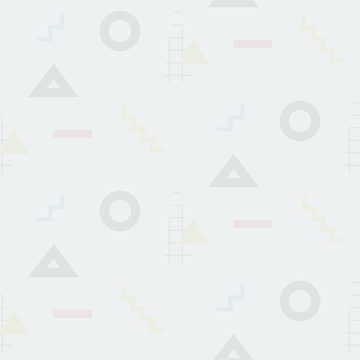
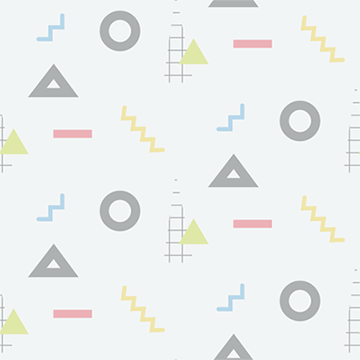
Beginings of Wordpress Theme

diff --git a/style.css b/style.css
@@ -1,9 +1,20 @@
+/*
+Theme Name: ENTP.fyi
+Author: TomAricRC
+Description: Theme for ENTP.fyi
+Tags: ENTP
+*/
 body {
   font-size: 18px;
   line-height: 1.72em;
   font-family: 'Hind', sans-serif;
-  background: #ecf0f1;
-  background-image: url(img/background.png); }
+  background: #ecf0f1 url(img/background.png) 0 0 repeat;
+  background: -moz-linear-gradient(top, rgba(236, 240, 241, 0.96) 0%, rgba(236, 240, 241, 0.72) 72%, rgba(236, 240, 241, 0) 100%), url("http://www.skrenta.com/images/stackoverflow.jpg");
+  background: -webkit-gradient(linear, left top, left bottom, color-stop(0%, rgba(236, 240, 241, 0.96)), color-stop(72%, rgba(236, 240, 241, 0.72)), color-stop(100%, rgba(236, 240, 241, 0))), url("img/background.png");
+  background: -webkit-linear-gradient(top, rgba(236, 240, 241, 0.96) 0%, rgba(236, 240, 241, 0.72) 72%, rgba(236, 240, 241, 0) 100%), url("img/background.png");
+  background: -o-linear-gradient(top, rgba(236, 240, 241, 0.96) 0%, rgba(236, 240, 241, 0.72) 72%, rgba(236, 240, 241, 0) 100%), url("img/background.png");
+  background: -ms-linear-gradient(top, rgba(236, 240, 241, 0.96) 0%, rgba(236, 240, 241, 0.72) 72%, rgba(236, 240, 241, 0) 100%), url("img/background.png");
+  background: linear-gradient(to bottom, rgba(236, 240, 241, 0.96) 0%, rgba(236, 240, 241, 0.72) 72%, rgba(236, 240, 241, 0) 100%), url("img/background.png"); }
   @media (max-width: 768px) {
     body {
       font-size: 17px; } }
@@ -153,7 +164,7 @@ article .post-content {
     padding: 1rem 2rem;
     margin: 2.8rem 0;
     color: #34495e; }
-article a.post-read-more {
+article .post-read-more {
   background: #f39c12;
   color: white;
   font-family: 'Montserrat', sans-serif;
@@ -162,7 +173,7 @@ article a.post-read-more {
   text-align: center;
   display: block; }
   @media (max-width: 768px) {
-    article a.post-read-more {
+    article .post-read-more {
       padding: 1em; } }
 article .post-bottom-angle {
   width: 0;

diff --git a/stylesheets/main.scss b/stylesheets/main.scss
@@ -1,3 +1,9 @@
+/*
+Theme Name: ENTP.fyi
+Author: TomAricRC
+Description: Theme for ENTP.fyi
+Tags: ENTP
+*/
 //Include The Modules
 @import "modules/all";
 // Site Globals
@@ -5,8 +11,13 @@ body {
   font-size: 18px;
   line-height: 1.72em;
   font-family: 'Hind', sans-serif;
-  background: $clouds;
-  background-image: url(img/background.png);
+  background: $clouds url(img/background.png) 0 0 repeat;
+  background: -moz-linear-gradient(top, rgba(236,240,241,.96) 0%, rgba(236,240,241,.72) 72%, rgba(236,240,241,0) 100%), url('http://www.skrenta.com/images/stackoverflow.jpg');
+  background: -webkit-gradient(linear, left top, left bottom, color-stop(0%, rgba(236,240,241,.96)), color-stop(72%, rgba(236,240,241,.72)), color-stop(100%, rgba(236,240,241,0))), url('img/background.png');
+  background: -webkit-linear-gradient(top, rgba(236,240,241,.96) 0%, rgba(236,240,241,.72) 72%, rgba(236,240,241,0) 100%), url('img/background.png');
+  background: -o-linear-gradient(top, rgba(236,240,241,.96) 0%, rgba(236,240,241,.72) 72%, rgba(236,240,241,0) 100%), url('img/background.png');
+  background: -ms-linear-gradient(top, rgba(236,240,241,.96) 0%, rgba(236,240,241,.72) 72%, rgba(236,240,241,0) 100%), url('img/background.png');
+  background: linear-gradient(to bottom, rgba(236,240,241,.96) 0%, rgba(236,240,241,.72) 72%, rgba(236,240,241,0) 100%), url('img/background.png');
   //font-family: 'Montserrat', sans-serif;
   @media (max-width: 768px) {
     font-size: 17px;

diff --git a/index.html b/index.html
@@ -37,7 +37,7 @@
     <article>
       <section class="post-top-angle"></section>
       <section class="post-content">
-        <h2 class="post-title">2| The Test Collapse</h2>
+        <h2 class="post-title">2| Test Post: Please Ignore This...Yolo</h2>
         <figure class="post-featured">
           <img src="img/post-1-featured.png">
           <figcaption>
@@ -50,11 +50,13 @@
           </p>
         </div>
       </section>
-      <section class="post-top-angle post-top-angle-call"></section>
-      <a class="post-read-more">
-        READ MORE
+      <a href="#">
+        <section class="post-top-angle post-top-angle-call"></section>
+        <div class="post-read-more">
+          READ MORE
+        </div>
+        <section class="post-bottom-angle"></section>
       </a>
-      <section class="post-bottom-angle"></section>
     </article>
 
     <article>

diff --git a/stylesheets/partials/_posts.scss b/stylesheets/partials/_posts.scss
@@ -64,7 +64,7 @@ article {
       color: $wetasphalt;
     }
   }
-  a.post-read-more {
+  .post-read-more {
     @media (max-width: 768px) {
       padding: 1em;
     }

diff --git a/index.php b/index.php
@@ -1,0 +1,61 @@
+<?php get_header(); ?>
+
+<main class="container">
+  <article>
+    <section class="post-top-angle"></section>
+    <section class="post-content">
+      <h2 class="post-title">2| The Test Collapse</h2>
+      <figure class="post-featured">
+        <img src="img/post-1-featured.png">
+        <figcaption>
+        </figcaption>
+      </figure>
+      <div class="post-copy">
+        <p>
+          Some time ago I was intruduced to the concept of Myers Briggs Type Indicators. According to a group of platonic aquantances, a series of seemingly simple and arbitrary questions could identify the “4 key cognetive functions” a person uses to think, processes
+          information and (more or less) act. The idea of every man, woman, child, and house-plant being categorized into 16 predefined classes seemed nonsencical, but I was intruiged enough to further investigate.
+        </p>
+      </div>
+    </section>
+    <section class="post-top-angle post-top-angle-call"></section>
+    <a class="post-read-more">
+        READ MORE
+      </a>
+    <section class="post-bottom-angle"></section>
+  </article>
+
+  <article>
+    <section class="post-top-angle"></section>
+    <section class="post-content">
+      <h2 class="post-title">1| The Purpose of this Site</h2>
+      <figure class="post-featured">
+        <img src="img/post-1-featured.png">
+        <figcaption>
+
+        </figcaption>
+      </figure>
+      <div class="post-copy">
+        <p>
+          Some time ago I was intruduced to the concept of Myers Briggs Type Indicators. According to a group of platonic aquantances, a series of seemingly simple and arbitrary questions could identify the “4 key cognetive functions” a person uses to think, processes
+          information and (more or less) act. The idea of every man, woman, child, and house-plant being categorized into 16 predefined classes seemed nonsencical, but I was intruiged enough to further investigate.
+        </p>
+        <blockquote>
+          Yeah...right.
+          <br /><span style="font-style: italic;">Let me take your silly test.</span>
+        </blockquote>
+        <p>
+          Filled with confidence in my inability to fit into predefined profiles, I welcomed MBTI as a challenge. If anyone could break it’s personality-factoring shenanigans, it was going to be me. Unfortunately, my aspirations were immediately cut short by my
+          (suprisingly knowledgeable) group of colleagues.
+        </p>
+        <p>
+          You can create beautiful things - but you have to see them in your mind first. I'm a water fanatic. I love water. You can create anything that makes you happy. We don't want to set these clouds on fire. And I will hypnotize that just a little bit.
+        </p>
+        <blockquote>
+          No need to take the test. You’re a textbook ENTP.
+        </blockquote>
+      </div>
+    </section>
+  </article>
+</main>
+
+<?php get_footer(); ?>

diff --git a/header.php b/header.php
@@ -1,0 +1,35 @@
+<!DOCTYPE html>
+<html lang="en">
+
+<head>
+  <meta charset="utf-8">
+  <meta name="viewport" content="width=device-width, initial-scale=1">
+  <title>ENTP.fyi</title>
+  <meta name="description" content="The HTML5 Herald">
+  <meta name="author" content="SitePoint">
+  <link href="https://cdnjs.cloudflare.com/ajax/libs/meyer-reset/2.0/reset.min.css" rel="stylesheet">
+  <link href='https://fonts.googleapis.com/css?family=Hind:400,700|Montserrat:700' rel='stylesheet' type='text/css'>
+  <link href="https://maxcdn.bootstrapcdn.com/bootstrap/3.3.6/css/bootstrap.min.css" rel="stylesheet">
+  <link rel="stylesheet" href="style.css">
+
+  <!--[if lt IE 9]>
+  <script src = "http://html5shiv.googlecode.com/svn/trunk/html5.js"></script>
+  <![endif]-->
+  <?php wp_head();?>
+</head>
+
+<body>
+  <header class="site-header">
+    <nav>
+      <div class="container">
+        <figure class="site-header-hero row">
+          <img class="logo col-sm-6 col-md-5 col-lg-5" src="img/logo.svg" />
+          <figcaption class="col-sm-12 col-sm-offset-1">Ongoing <b>MBTI</b> Information on <b>ENTPs</b>, by an <b>ENTP</b> who doesn't believe in <b>MBTI</b>.</figcaption>
+        </figure>
+      </div>
+    </nav>
+    <div class="angle">
+      <!--<div class="triangle-1"></div>
+      <div class="triangle-2"></div>-->
+    </div>
+  </header>

diff --git a/footer.php b/footer.php
@@ -1,0 +1,6 @@
+<script src="https://maxcdn.bootstrapcdn.com/bootstrap/3.3.6/js/bootstrap.min.js"></script>
+<script src="js/scripts.js"></script>
+<?php wp_footer(); ?>
+</body>
+
+</html>
